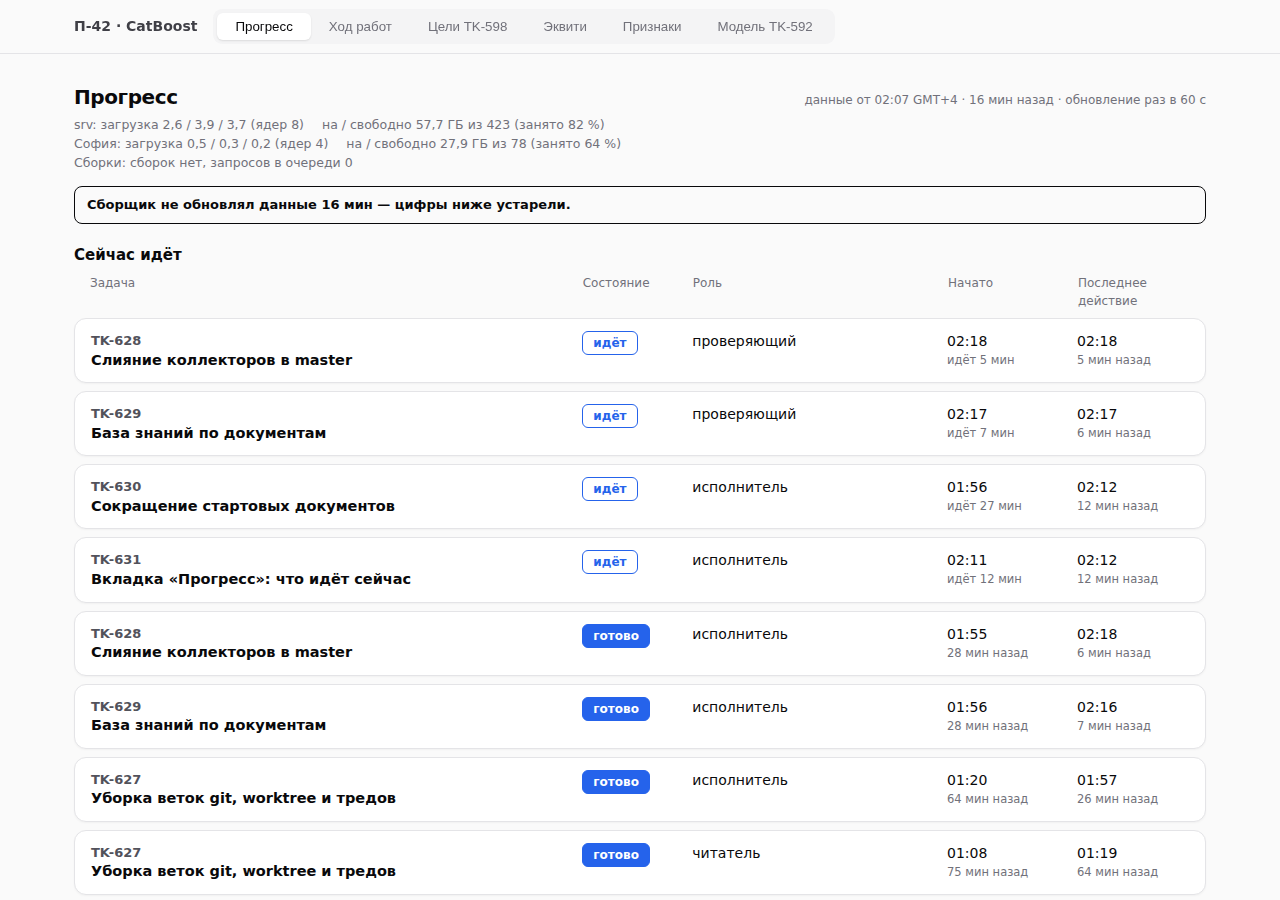
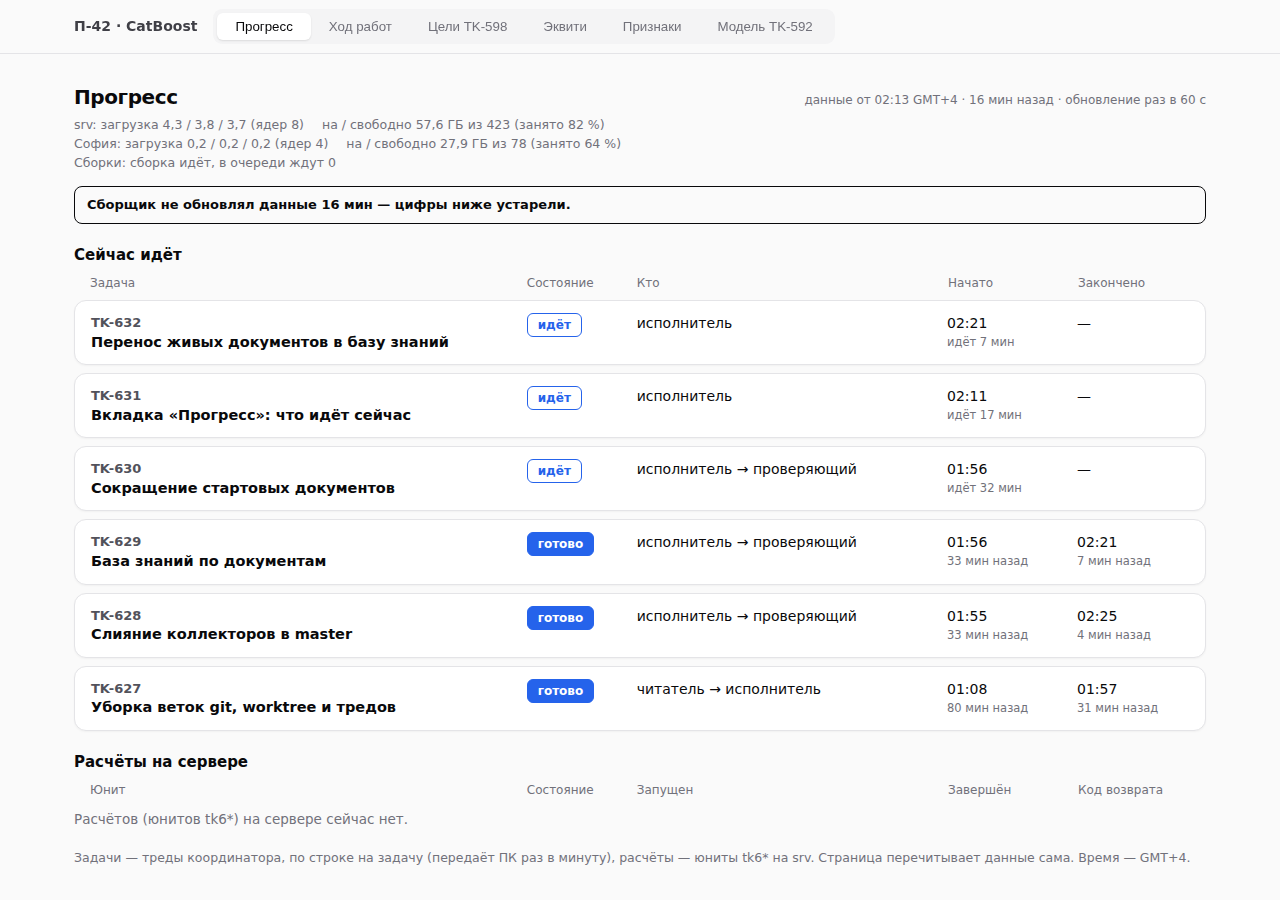
TK-631: одна строка на задачу (исполнитель → проверяющий), без «последнего действия»; TK-632 в tk_names.json
В bb list/show нет времени активности треда (updatedAt — смена состояния), колонка убрана; «закончено» — только у готовых и с ошибкой. now_push добавляет к свежим задачам остальные неархивные треды того же TK, сборщик группирует. Тесты, клик-тест Софии 1280/390 (73+73), снимки.

diff --git a/tools/p42/tk613_check.js b/tools/p42/tk613_check.js
@@ -35,7 +35,7 @@ function g4(ts, nowMs) {
   const state = () => page.evaluate(() => ({hash: location.hash, selected: [...document.querySelectorAll('#toptabs button[aria-selected="true"]')].map(b => b.dataset.tab), visible: [...document.querySelectorAll('.pane')].filter(p => !p.hidden).map(p => p.id)}));
   const nowRows = () => page.evaluate(() => [...document.querySelectorAll('#lv-now .lv-row')].map(r => {
     const t = f => { const n = r.querySelector(`[data-f=${f}]`); return n ? n.innerText.replace(/\s+/g, ' ').trim() : null; };
-    return {tk: r.dataset.task, state: r.dataset.state, badge: t('state'), name: r.querySelector('.lv-name span').innerText, role: t('role'), start: t('start'), upd: t('upd')};
+    return {tk: r.dataset.task, state: r.dataset.state, badge: t('state'), name: r.querySelector('.lv-name span').innerText, role: t('role'), start: t('start'), end: t('end')};
   }));
   const unitRows = () => page.evaluate(() => [...document.querySelectorAll('#lv-units .lv-row')].map(r => {
     const t = f => { const n = r.querySelector(`[data-f=${f}]`); return n ? n.innerText.replace(/\s+/g, ' ').trim() : null; };
@@ -58,16 +58,16 @@ function g4(ts, nowMs) {
   eq('по умолчанию: выбрана и видна', [st0.hash, st0.selected, st0.visible], ['#live', ['live'], ['pane-live']]);
 
   // ── строки против JSON
-  const NW = J.now.threads, UN = J.units;
+  const NW = J.now.tasks, UN = J.units;
   const RN = await nowRows();
   eq('«Сейчас идёт»: задачи и порядок', RN.map(r => r.tk), NW.map(t => t.tk || t.id));
   NW.forEach((t, i) => {
     const r = RN[i], k = t.tk || t.id;
     eq(`${k} состояние`, r.badge, {run: 'идёт', done: 'готово', fail: 'ошибка'}[t.state]);
     eq(`${k} название`, r.name, t.name);
-    eq(`${k} роль`, r.role, t.role ? t.role + (t.version > 1 ? ' · v' + t.version : '') : '—');
+    eq(`${k} кто`, r.role, t.chain.length ? t.chain.join(' → ') : '—');
     eq(`${k} начато (GMT+4)`, t.started_ts ? r.start.startsWith(g4(t.started_ts, nowMs)) : r.start, t.started_ts ? true : '—');
-    eq(`${k} последнее действие (GMT+4)`, t.updated_ts ? r.upd.startsWith(g4(t.updated_ts, nowMs)) : r.upd, t.updated_ts ? true : '—');
+    eq(`${k} закончено (GMT+4)`, t.state !== 'run' && t.end_ts ? r.end.startsWith(g4(t.end_ts, nowMs)) : r.end, t.state !== 'run' && t.end_ts ? true : '—');
   });
   eq('«Сейчас идёт»: пустой список — подпись', NW.length ? (await empties()).filter(x => x.startsWith('Сейчас')).length : (await empties())[0], NW.length ? 0 : 'Сейчас никто не работает.');
   const RU = await unitRows();
@@ -80,6 +80,8 @@ function g4(ts, nowMs) {
   });
   eq('«Расчёты на сервере»: пустой список — подпись', (await empties()).filter(x => x.startsWith('Расчётов')).length, UN.length ? 0 : 1);
   eq('нет старых задач TK-599/607/609/611/610', await page.evaluate(() => /TK-(599|607|609|611|610)/.test(document.getElementById('live').innerText)), false);
+  eq('одна строка на задачу', RN.length, new Set(RN.map(r => r.tk)).size);
+  eq('нет колонки «Последнее действие»', await page.evaluate(() => document.getElementById('live').innerText.includes('Последнее действие')), false);
   const meta = await page.evaluate(() => document.getElementById('lv-meta').innerText.replace(/\s+/g, ' '));
   eq('нагрузка в строке srv', meta.includes('загрузка ' + J.host.load.map(x => ru(x, 1)).join(' / ')), true);
   eq('диск в строке srv', meta.includes('свободно ' + ru(J.host.disk.free_gb, 1) + ' ГБ'), true);
@@ -95,27 +97,28 @@ function g4(ts, nowMs) {
   // ── синтетика: все состояния строк, устаревшая передача ПК, пустые списки
   const T0 = nowMs / 1000;
   const fake = {generated_ts: T0 - 20, units_ok: true, host: J.host,
-    now: {ok: true, pushed_ts: T0 - 900, threads: [
-      {id: 't1', tk: 'TK-901', name: 'Проверка бегущей задачи', named: true, role: 'исполнитель', version: 1, state: 'run', started_ts: T0 - 7500, updated_ts: T0 - 40},
-      {id: 't2', tk: 'TK-902', name: 'topic words only', named: false, role: 'проверяющий', version: 3, state: 'fail', started_ts: T0 - 4000, updated_ts: T0 - 3000},
-      {id: 't3', tk: null, name: 'не по формату', named: false, role: null, version: null, state: 'done', started_ts: null, updated_ts: T0 - 600}]},
+    now: {ok: true, pushed_ts: T0 - 900, tasks: [
+      {id: 'TK-901', tk: 'TK-901', name: 'Проверка бегущей задачи', named: true, state: 'run', chain: ['исполнитель', 'проверяющий'], threads: 2, started_ts: T0 - 7500, end_ts: null},
+      {id: 'TK-902', tk: 'TK-902', name: 'topic words only', named: false, state: 'fail', chain: ['исполнитель', 'исполнитель v2'], threads: 2, started_ts: T0 - 4000, end_ts: T0 - 3000},
+      {id: 't3', tk: null, name: 'не по формату', named: false, state: 'done', chain: [], threads: 1, started_ts: null, end_ts: T0 - 600}]},
     units: [{name: 'tk901-run', state: 'run', since_ts: T0 - 3600, end_ts: null, rc: null}, {name: 'tk902-job', state: 'fail', since_ts: T0 - 1800, end_ts: T0 - 1200, rc: 3},
             {name: 'tk903-done', state: 'done', since_ts: T0 - 1800, end_ts: T0 - 600, rc: 0}]};
   await page.route('**/data/tasks.json*', route => route.fulfill({json: fake}));
   await page.evaluate(() => loadLive()); await page.waitForTimeout(500);
   const FN = await nowRows(), FU = await unitRows();
-  eq('синтетика: строки задач', FN.map(r => [r.tk, r.state, r.badge, r.name, r.role]), [['TK-901', 'run', 'идёт', 'Проверка бегущей задачи', 'исполнитель'], ['TK-902', 'fail', 'ошибка', 'topic words only', 'проверяющий · v3'], ['t3', 'done', 'готово', 'не по формату', '—']]);
+  eq('синтетика: строки задач', FN.map(r => [r.tk, r.state, r.badge, r.name, r.role]), [['TK-901', 'run', 'идёт', 'Проверка бегущей задачи', 'исполнитель → проверяющий'], ['TK-902', 'fail', 'ошибка', 'topic words only', 'исполнитель → исполнитель v2'], ['t3', 'done', 'готово', 'не по формату', '—']]);
   eq('синтетика: «идёт 2 ч 05 мин» у бегущей', FN[0].start.includes('идёт 2 ч 05 мин'), true);
-  eq('синтетика: время «последнее действие» бегущей', FN[0].upd.startsWith(g4(T0 - 40, nowMs)), true);
+  eq('синтетика: у бегущей нет «закончено», у остальных есть', FN.map(r => r.end.startsWith('—')), [true, false, false]);
+  eq('синтетика: закончено у ошибки', FN[1].end.startsWith(g4(T0 - 3000, nowMs)), true);
   eq('синтетика: юниты', FU.map(r => [r.name, r.state, r.badge, r.rc]), [['tk901-run', 'run', 'идёт', '—'], ['tk902-job', 'fail', 'ошибка', '3'], ['tk903-done', 'done', 'завершён', '0']]);
   eq('синтетика: у бегущего юнита нет «завершён»', FU[0].end, '—');
   eq('предупреждение «ПК не передаёт»', (await page.locator('.lv-warn').allInnerTexts()).some(x => x.includes('Список задач не обновлялся') && x.includes('ПК не передаёт')), true);
   await page.screenshot({path: `${out}/live-synthetic-${W}.png`, fullPage: true});
-  fake.now.threads = []; fake.units = []; fake.now.pushed_ts = T0 - 10;
+  fake.now.tasks = []; fake.units = []; fake.now.pushed_ts = T0 - 10;
   await page.evaluate(() => loadLive()); await page.waitForTimeout(500);
   eq('пусто: подписи', await empties(), ['Сейчас никто не работает.', 'Расчётов (юнитов tk6*) на сервере сейчас нет.']);
   eq('пусто: предупреждений нет', await page.locator('.lv-warn').count(), 0);
-  fake.now = {ok: false, err: 'x', pushed_ts: null, threads: []};
+  fake.now = {ok: false, err: 'x', pushed_ts: null, tasks: []};
   await page.evaluate(() => loadLive()); await page.waitForTimeout(500);
   eq('now.json нет: предупреждение', (await page.locator('.lv-warn').allInnerTexts()).some(x => x.includes('Список задач ещё не получен')), true);
   await page.unroute('**/data/tasks.json*');
@@ -145,7 +148,7 @@ function g4(ts, nowMs) {
   eq('на другой вкладке запросов нет', reqs - r1, 0);
   await page.click('#toptabs button[data-tab="live"]'); await page.waitForTimeout(600);
   eq('возврат на «Прогресс»: сразу перечитывает', reqs - r1, 1);
-  eq('после возврата строки на месте', (await nowRows()).length, (await page.evaluate(() => LV.data.now.threads.length)));
+  eq('после возврата строки на месте', (await nowRows()).length, (await page.evaluate(() => LV.data.now.tasks.length)));
 
   // ── хеши и остальные вкладки
   for (const k of ['progress', 'targets', 'equity', 'features', 'model', 'live']) {

diff --git a/tools/p42/tk593_template.html b/tools/p42/tk593_template.html
@@ -197,7 +197,7 @@ section.ft-set{margin-top:22px;scroll-margin-top:118px}
 .lv-hl{display:flex;flex-wrap:wrap;gap:2px 18px}
 .lv-warn{margin:0 0 12px;padding:8px 12px;border:1px solid var(--fg);border-radius:8px;font-size:13px;font-weight:600}
 .lv-h3{margin:20px 0 8px;font-size:15px;font-weight:650}
-.lv-head,.lv-row{display:grid;grid-template-columns:minmax(220px,2fr) 92px minmax(110px,1fr) 112px 112px;gap:6px 18px;align-items:start}
+.lv-head,.lv-row{display:grid;grid-template-columns:minmax(220px,2fr) 92px minmax(170px,1.4fr) 112px 112px;gap:6px 18px;align-items:start}
 .lv-head{padding:0 16px 8px;color:var(--mfg);font-size:12px;font-weight:500}
 .lv-row{background:#fff;border:1px solid var(--border);border-radius:var(--r);box-shadow:0 1px 2px rgba(0,0,0,.04);padding:12px 16px;margin-bottom:8px}
 .lv-name b{display:block;font-size:13px;color:var(--z600)}
@@ -1151,12 +1151,13 @@ const LV_BADGE = {run: 'run', done: 'ok', fail: 'fail'};
 const LV_TXT = {run: 'идёт', done: 'готово', fail: 'ошибка'};
 const lvAge = (ts, now) => ts ? [g4(ts), h('small', {}, dur(now - ts) + ' назад')] : '—';
 function nowRow(t, now) {
+  const run = t.state === 'run';
   return h('div', {class: 'lv-row', 'data-task': t.tk || t.id, 'data-state': t.state}, [
     h('div', {class: 'lv-c lv-name'}, [h('b', {}, t.tk || 'без номера'), h('span', {title: t.named ? null : 'русского названия в таблице нет — тема треда'}, t.name)]),
     h('div', {class: 'lv-c', 'data-l': 'Состояние'}, h('span', {class: 'badge ' + LV_BADGE[t.state], 'data-f': 'state'}, LV_TXT[t.state])),
-    h('div', {class: 'lv-c', 'data-l': 'Роль', 'data-f': 'role'}, t.role ? t.role + (t.version > 1 ? ' · v' + t.version : '') : '—'),
-    h('div', {class: 'lv-c', 'data-l': 'Начато', 'data-f': 'start'}, t.started_ts ? [g4(t.started_ts), h('small', {}, (t.state === 'run' ? 'идёт ' + dur(now - t.started_ts) : dur(now - t.started_ts) + ' назад'))] : '—'),
-    h('div', {class: 'lv-c', 'data-l': t.state === 'run' ? 'Последнее действие' : 'Закончено', 'data-f': 'upd'}, lvAge(t.updated_ts, now))]);
+    h('div', {class: 'lv-c', 'data-l': 'Кто', 'data-f': 'role'}, t.chain.length ? t.chain.join(' → ') : '—'),
+    h('div', {class: 'lv-c', 'data-l': 'Начато', 'data-f': 'start'}, t.started_ts ? [g4(t.started_ts), h('small', {}, run ? 'идёт ' + dur(now - t.started_ts) : dur(now - t.started_ts) + ' назад')] : '—'),
+    h('div', {class: 'lv-c', 'data-l': 'Закончено', 'data-f': 'end'}, !run && t.end_ts ? lvAge(t.end_ts, now) : '—')]);
 }
 function unitRow(u, now) {
   return h('div', {class: 'lv-row', 'data-unit': u.name, 'data-state': u.state}, [
@@ -1172,9 +1173,9 @@ function renderLive() {
   if (!root.childElementCount) {
     root.append(h('div', {class: 'prog-h'}, [h('h2', {}, 'Прогресс'), h('span', {class: 'muted small', id: 'lv-sub'})]),
       h('div', {class: 'lv-meta', id: 'lv-meta'}), h('div', {id: 'lv-warn'}),
-      h('h3', {class: 'lv-h3'}, 'Сейчас идёт'), lvHead(['Задача', 'Состояние', 'Роль', 'Начато', 'Последнее действие']), h('div', {id: 'lv-now'}),
+      h('h3', {class: 'lv-h3'}, 'Сейчас идёт'), lvHead(['Задача', 'Состояние', 'Кто', 'Начато', 'Закончено']), h('div', {id: 'lv-now'}),
       h('h3', {class: 'lv-h3'}, 'Расчёты на сервере'), lvHead(['Юнит', 'Состояние', 'Запущен', 'Завершён', 'Код возврата']), h('div', {id: 'lv-units'}),
-      h('p', {class: 'lv-foot'}, 'Задачи — треды координатора (передаёт ПК раз в минуту), расчёты — юниты tk6* на srv. Страница перечитывает данные сама. Время — GMT+4.'));
+      h('p', {class: 'lv-foot'}, 'Задачи — треды координатора, по строке на задачу (передаёт ПК раз в минуту), расчёты — юниты tk6* на srv. Страница перечитывает данные сама. Время — GMT+4.'));
   }
   const d = LV.data, now = Date.now() / 1000;
   const warn = [], nw = d && d.now;
@@ -1193,7 +1194,7 @@ function renderLive() {
     h('div', {class: 'lv-hl'}, so && so.ok ? hostLine('София', so, 'sofia') : [h('span', {'data-f': 'sofia-load'}, 'София: нет данных' + (so && so.err ? ' (' + so.err + ')' : ''))]),
     ho.builds ? h('div', {class: 'lv-hl'}, h('span', {'data-f': 'builds'}, 'Сборки: ' + ho.builds.text)) : null].filter(Boolean) : []));
   const empty = txt => h('div', {class: 'lv-empty', 'data-f': 'empty'}, txt);
-  const th = nw ? nw.threads : [];
+  const th = nw ? nw.tasks : [];
   document.getElementById('lv-now').replaceChildren(...(!d ? [] : th.length ? th.map(t => nowRow(t, now)) : [empty(nw && nw.ok ? 'Сейчас никто не работает.' : 'Нет данных.')]));
   const un = d ? d.units : [];
   document.getElementById('lv-units').replaceChildren(...(!d ? [] : un.length ? un.map(u => unitRow(u, now)) : [empty('Расчётов (юнитов tk6*) на сервере сейчас нет.')]));

diff --git a/tools/p42/test_tk613.py b/tools/p42/test_tk613.py
@@ -26,29 +26,57 @@ now = time.time()
 # 1. ничего нет — не падает: нет now.json → ok=False, юниты пусты, хост на месте; старых задач в выводе нет
 d = c.collect(now, units=[], sofia=SOFIA)
 json.dumps(d, allow_nan=False)
-assert d["now"] == {"ok": False, "err": "файл now.json не найден или не читается", "pushed_ts": None, "threads": []}, d["now"]
+assert d["now"] == {"ok": False, "err": "файл now.json не найден или не читается", "pushed_ts": None, "tasks": []}, d["now"]
 assert d["units"] == [] and d["units_ok"] is True and "tasks" not in d
 assert d["host"]["sofia"]["disk"]["free_gb"] == 31.2 and d["host"]["builds"]["ok"] and "сборок нет" in d["host"]["builds"]["text"]
 assert d["host"]["cpus"] and d["host"]["disk"]["total_gb"] > 0
 
-# 2. now.json: русское имя по TK из таблицы, иначе тема словами; роль по-русски; мусорные строки пропускаются
+# 2. now.json → строка на задачу: цепочка ролей по порядку старта, состояние, русское имя по TK (иначе тема словами), мусор пропускается
+def T(id, tk, topic, role, ver, state, started, updated):
+    return {"id": id, "state": state, "tk": tk, "topic": topic, "role": role, "version": ver, "started_ts": started, "updated_ts": updated, "title": id}
+
+
 put("pages/ml/data/now.json", json.dumps({"generated_ts": now - 30, "threads": [
-    {"id": "t1", "state": "run", "tk": "TK-631", "topic": "progress-now", "role": "исп", "version": 1, "started_ts": now - 600, "updated_ts": now - 5, "title": "x"},
-    {"id": "t2", "state": "done", "tk": "TK-700", "topic": "new-topic-here", "role": "пров", "version": 2, "started_ts": now - 7200, "updated_ts": now - 900, "title": "y"},
-    {"id": "t3", "state": "fail", "tk": None, "topic": None, "role": None, "version": None, "started_ts": None, "updated_ts": None, "title": "не по формату"},
-    {"id": "t4", "state": "weird", "tk": "TK-1", "topic": "skip", "role": "исп"}, "мусор"]}))
+    T("a1", "TK-631", "progress-now", "исп", 1, "run", now - 600, now - 5),                       # одиночный бегущий
+    T("b1", "TK-700", "new-topic-here", "исп", 1, "done", now - 7200, now - 4000),             # исполнитель → проверяющий, оба готовы
+    T("b2", "TK-700", "new-topic-here", "пров", 1, "done", now - 3900, now - 900),
+    T("c1", "TK-701", "pair-run", "исп", 1, "done", now - 9000, now - 3000),                   # проверяющий идёт — задача «идёт»
+    T("c2", "TK-701", "pair-run", "пров", 1, "run", now - 2000, now - 1900),
+    T("d1", "TK-702", "retry", "исп", 1, "fail", now - 8000, now - 7000),                      # v1 с ошибкой, v2 идёт, затем проверяющий закрыт: «идёт» (v2)
+    T("d2", "TK-702", "retry", "исп", 2, "run", now - 6000, now - 5900),
+    T("d3", "TK-702", "retry", "пров", 1, "done", now - 5000, now - 4900),
+    T("e1", "TK-703", "twice", "исп", 1, "done", now - 5000, now - 4500),                      # два подряд одинаковых ярлыка схлопываются
+    T("e2", "TK-703", "twice", "исп", 1, "done", now - 4000, now - 800),
+    T("f1", None, None, None, None, "fail", None, None),                                       # не по формату — своя строка
+    {"id": "w", "state": "weird", "tk": "TK-1", "topic": "skip", "role": "исп"}, "мусор"]}))
 put("p42-tk613/tk_names.json", json.dumps({"TK-631": "Вкладка «Прогресс»: что идёт сейчас"}))
 nb = c.collect(now, units=[], sofia=SOFIA)["now"]
-assert nb["ok"] and nb["pushed_ts"] == now - 30 and [t["id"] for t in nb["threads"]] == ["t1", "t2", "t3"], nb
-t1, t2, t3 = nb["threads"]
-assert t1["name"] == "Вкладка «Прогресс»: что идёт сейчас" and t1["named"] and t1["role"] == "исполнитель" and t1["state"] == "run"
-assert t2["name"] == "new topic here" and not t2["named"] and t2["role"] == "проверяющий" and t2["version"] == 2
-assert t3["name"] == "не по формату" and t3["tk"] is None and t3["state"] == "fail"
+assert nb["ok"] and nb["pushed_ts"] == now - 30 and "threads" not in nb, nb
+tasks = {t["id"]: t for t in nb["tasks"]}
+assert [t["id"] for t in nb["tasks"]] == ["TK-631", "TK-702", "TK-701", "f1", "TK-703", "TK-700"], [t["id"] for t in nb["tasks"]]   # идёт → ошибка → готово; внутри — новее старт выше
+a = tasks["TK-631"]
+assert a["name"] == "Вкладка «Прогресс»: что идёт сейчас" and a["named"] and a["chain"] == ["исполнитель"] and a["state"] == "run" and a["end_ts"] is None and a["threads"] == 1
+b = tasks["TK-700"]
+assert b["name"] == "new topic here" and not b["named"] and b["chain"] == ["исполнитель", "проверяющий"] and b["state"] == "done" and b["end_ts"] == now - 900 and b["started_ts"] == now - 7200 and b["threads"] == 2
+cc = tasks["TK-701"]
+assert cc["chain"] == ["исполнитель", "проверяющий"] and cc["state"] == "run" and cc["end_ts"] is None
+d = tasks["TK-702"]
+assert d["chain"] == ["исполнитель", "исполнитель v2", "проверяющий"] and d["state"] == "run" and d["threads"] == 3
+e = tasks["TK-703"]
+assert e["chain"] == ["исполнитель"] and e["state"] == "done" and e["threads"] == 2
+f = tasks["f1"]
+assert [t["state"] for t in nb["tasks"]] == ["run", "run", "run", "fail", "done", "done"]
+assert f["tk"] is None and f["name"] == "f1" and f["chain"] == [] and f["state"] == "fail" and f["started_ts"] is None
+# задача, закрытая последним тредом с ошибкой, и без идущих: состояние последнего по старту
+last_fail = c.group_tasks([T("x1", "TK-9", "t", "исп", 1, "done", 10, 20), T("x2", "TK-9", "t", "пров", 1, "fail", 30, 40)], {})
+assert last_fail[0]["state"] == "fail" and last_fail[0]["end_ts"] == 40
 # битый json / не тот формат — «ok: False», не падение
 put("pages/ml/data/now.json", "{oops")
 assert c.collect(now, units=[], sofia=SOFIA)["now"]["ok"] is False
 put("pages/ml/data/now.json", json.dumps({"threads": "нет"}))
 assert c.collect(now, units=[], sofia=SOFIA)["now"]["ok"] is False
+put("pages/ml/data/now.json", json.dumps({"generated_ts": now, "threads": []}))
+assert c.collect(now, units=[], sofia=SOFIA)["now"] == {"ok": True, "pushed_ts": now, "tasks": []}
 
 # 3. юниты tk6*: разбор «systemctl show»; свой сборщик и таймеры не в счёте; завершённые — только свежие
 SHOW = """Id=tk631-run.service

diff --git a/tools/p42/tk613_collect.py b/tools/p42/tk613_collect.py
@@ -4,7 +4,7 @@
 Раз в минуту (таймер tk613-progress.timer) читает файлы и юниты srv — только чтение, ничего не трогает — и пишет один JSON
 /data/pages/ml/data/tasks.json (его читает страница). Источники:
   now.json   /data/pages/ml/data/now.json — дочерние треды координатора bb (ПК владельца, tools/now_push.py раз в минуту): TK, тема, роль, статус;
-             русское имя задачи — по TK из tk_names.json (нет — тема треда словами)
+             строка на задачу (исполнитель → проверяющий), русское имя — по TK из tk_names.json (нет — тема треда словами)
   юниты srv  systemd tk6*.service (кроме самого сборщика): имя, с какого времени, код возврата
   srv        нагрузка, место на /; сборки — очередь rbuild (/opt/rbuild, процессы run-srv.sh)
   София      нагрузка и место на / по ssh (ключ только на команду чтения, см. sofia_probe)
@@ -111,22 +111,40 @@ def list_units(now):
 
 
 # ── что идёт сейчас: треды bb ──────────────────────────────────────────────────────────────────────────────────────────────────────────
+def group_tasks(threads, names):
+    """Треды (строки now.json) → по одной строке на задачу TK: цепочка ролей по порядку старта («исполнитель → проверяющий»), состояние — «идёт», если идёт любой тред
+    задачи, иначе состояние последнего по старту; конец — когда закрылся последний тред (только для готово/ошибка). Тред без номера — своя строка."""
+    groups = {}
+    for t in threads:
+        if isinstance(t, dict) and t.get("state") in ("run", "fail", "done"):
+            groups.setdefault(t.get("tk") or t.get("id"), []).append(t)
+    out = []
+    for key, g in groups.items():
+        g.sort(key=lambda t: (t.get("started_ts") or 0, t.get("updated_ts") or 0))
+        last = g[-1]
+        st = "run" if any(t["state"] == "run" for t in g) else last["state"]
+        chain = []
+        for t in g:
+            lab = ROLES.get(t.get("role"), t.get("role"))
+            lab = lab and lab + (f" v{t['version']}" if (t.get("version") or 1) > 1 else "")
+            if lab and (not chain or chain[-1] != lab):
+                chain.append(lab)
+        tk, topic = last.get("tk"), last.get("topic")
+        starts = [t["started_ts"] for t in g if t.get("started_ts")]
+        out.append({"id": key, "tk": tk, "name": names.get(tk) or (topic.replace("-", " ") if topic else last.get("title") or key), "named": bool(names.get(tk)),
+                    "state": st, "chain": chain, "threads": len(g), "started_ts": min(starts) if starts else None,
+                    "end_ts": None if st == "run" else last.get("updated_ts")})
+    out.sort(key=lambda r: ({"run": 0, "fail": 1, "done": 2}[r["state"]], -(r["started_ts"] or 0)))
+    return out
+
+
 def now_block(now, path=None, names_path=None):
-    """now.json (его кладёт ПК) → {ok, pushed_ts, threads[{id, tk, name, role, version, state, started_ts, updated_ts}]}; name — русское по TK."""
+    """now.json (его кладёт ПК) → {ok, pushed_ts, tasks[{id, tk, name, named, state, chain, threads, started_ts, end_ts}]}; name — русское по TK."""
     d = jload(path or NOW)
     if not isinstance(d, dict) or not isinstance(d.get("threads"), list):
-        return {"ok": False, "err": "файл now.json не найден или не читается", "pushed_ts": None, "threads": []}
+        return {"ok": False, "err": "файл now.json не найден или не читается", "pushed_ts": None, "tasks": []}
     names = jload(names_path or NAMES)
-    names = names if isinstance(names, dict) else {}
-    out = []
-    for t in d["threads"]:
-        if not isinstance(t, dict) or t.get("state") not in ("run", "fail", "done"):
-            continue
-        tk, topic, role = t.get("tk"), t.get("topic"), t.get("role")
-        name = names.get(tk) or (topic.replace("-", " ") if topic else t.get("title") or t.get("id"))
-        out.append({"id": t.get("id"), "tk": tk, "name": name, "named": bool(names.get(tk)), "role": ROLES.get(role, role), "version": t.get("version"),
-                    "state": t["state"], "started_ts": t.get("started_ts"), "updated_ts": t.get("updated_ts")})
-    return {"ok": True, "pushed_ts": d.get("generated_ts"), "threads": out}
+    return {"ok": True, "pushed_ts": d.get("generated_ts"), "tasks": group_tasks(d["threads"], names if isinstance(names, dict) else {})}
 
 
 # ── сборки, нагрузка, диск ─────────────────────────────────────────────────────────────────────────────────────────────────────────────
@@ -205,7 +223,7 @@ def main():
     with open(tmp, "w", encoding="utf-8") as f:
         json.dump(data, f, ensure_ascii=False, allow_nan=False, separators=(",", ":"))
     os.replace(tmp, OUT)
-    print(OUT, f"треды {len(data['now']['threads'])}, юниты {len(data['units'])}")
+    print(OUT, f"задач {len(data['now']['tasks'])}, юниты {len(data['units'])}")
 
 
 if __name__ == "__main__":

diff --git a/tools/now_push.py b/tools/now_push.py
@@ -31,19 +31,21 @@ def parse_title(title):
 
 
 def build(threads, now_ms, done_hours=DONE_HOURS):
-    """Список тредов bb (bb thread list --json) → строки now.json: идут (run), с ошибкой (fail), закрытые за done_hours (done); новее — выше."""
-    out = []
+    """Список тредов bb (bb thread list --json) → строки now.json (по треду). Берутся: идут (run), с ошибкой (fail), закрытые за done_hours (done);
+    к ним добавляются остальные неархивные треды того же TK (цепочка исполнитель → проверяющий для страницы). Порядок: состояние, новее выше."""
+    rows = []
     for t in threads:
         st = STATE.get(t.get("status"))
         if not st or t.get("archivedAt") or t.get("deletedAt"):
             continue
         upd = t.get("updatedAt") or t.get("createdAt")
-        if st == "done" and (not upd or now_ms - upd > done_hours * 3600e3):
-            continue
         p = parse_title(t.get("title"))
-        out.append({"id": t["id"], "state": st, "title": t.get("title") or "", "tk": p and p["tk"], "topic": p["topic"] if p else None,
-                    "role": p and p["role"], "version": p and p["version"],
-                    "started_ts": t["createdAt"] / 1000 if t.get("createdAt") else None, "updated_ts": upd / 1000 if upd else None})
+        rows.append(({"id": t["id"], "state": st, "title": t.get("title") or "", "tk": p and p["tk"], "topic": p["topic"] if p else None,
+                      "role": p and p["role"], "version": p and p["version"],
+                      "started_ts": t["createdAt"] / 1000 if t.get("createdAt") else None, "updated_ts": upd / 1000 if upd else None},
+                     st != "done" or bool(upd and now_ms - upd <= done_hours * 3600e3)))
+    live = {r["tk"] for r, hit in rows if hit and r["tk"]}
+    out = [r for r, hit in rows if hit or r["tk"] in live]
     order = {"run": 0, "fail": 1, "done": 2}
     out.sort(key=lambda r: (order[r["state"]], -(r["updated_ts"] or 0)))
     return out

diff --git a/tools/test_now_push.py b/tools/test_now_push.py
@@ -43,7 +43,18 @@ assert by["c"]["started_ts"] == (NOW - 1 * H) / 1000 and by["c"]["updated_ts"] =
 assert by["h"]["tk"] is None and by["h"]["topic"] is None and by["h"]["title"] == "не по формату"
 assert n.build([th("x", "исп · TK-9 · t · v1", "idle", upd_h_ago=2)], NOW, done_hours=1) == []
 
-# 3. пустой и «битый» ввод не роняет
+# 3. цепочка задачи: у задачи с живым/свежим тредом в now.json попадают и остальные неархивные треды этого TK (даже старые закрытые)
+rows = n.build([
+    th("e1", "исп · TK-10 · chain · v1", "idle", upd_h_ago=9, created_h_ago=12),             # старый исполнитель той же задачи
+    th("v1", "пров · TK-10 · chain · v1", "active", upd_h_ago=0.1, created_h_ago=1),         # проверяющий идёт
+    th("e2", "исп · TK-10 · chain · v1", "idle", upd_h_ago=8, created_h_ago=9, archivedAt=5),  # архивный — не входит
+    th("o1", "исп · TK-11 · old-pair · v1", "idle", upd_h_ago=9),                            # вся задача давно закрыта — нет
+    th("o2", "пров · TK-11 · old-pair · v1", "idle", upd_h_ago=8),
+    th("n1", "не по формату", "idle", upd_h_ago=9),                                          # без номера — по себе, не по задаче
+], NOW)
+assert [r["id"] for r in rows] == ["v1", "e1"], [r["id"] for r in rows]
+
+# 4. пустой и «битый» ввод не роняет
 assert n.build([], NOW) == []
 assert n.build([{"id": "z", "title": None, "status": "active", "createdAt": None, "updatedAt": None}], NOW)[0]["started_ts"] is None
 print("test_now_push: OK")

diff --git a/docs/COMMANDS.md b/docs/COMMANDS.md
@@ -50,7 +50,7 @@
 
 **Вид «Где мы» и «Базы» вкладки «Эквити», страница :8090 (TK-624, 19–20.11):** «Ход работ» (`#progress`) — только этапы + строка-ссылка на «Эквити», денег там нет. Вся прибыль/шарп/кривые — «Эквити»: `#equity/short/where` (блок «Где мы»: базы, честная вселенная TK-621 U0…U4 по лонгу и шорту, что сломано, что дальше + блок «Признак: успешные пробои монеты» — `feature` в `ml_progress.json`, «считается» до таблицы TK-625) и `#equity/short|long|both/bases`. Тексты — `where` и `feature` в `tools/p42/ml_progress.json` (схема `ml_progress.schema.json`; у этапов необязательное `group`), разъяснение TK-604 — набор «Пробиваемость монеты» в `ml_features.json`. Цифры и кривые — `data/bases.json` (суточные ряды `L_base`/`S_base` TK-599 и `S_mk1` TK-616; `tk624_table.py`) и `data/universe.json` (TK-621, `tk624_universe.py`: ряды `/data/p42-tk621/out/`, сверка с `report.json`); оба строит `ml_page_update.sh`, `tk593_page.py` сверяет итоги с принятыми отчётами. Таблицы признака TK-625 — `tools/p42/tk624_feature.py <step1-h775.json> <step1-o566.json> ml_progress.json` (копии источников — `docs/findings/p42-where-we-are-2026-11-19/tk625-step1-*.json`). Проверка: `tk624_shots.js` (Sofia, как `tk593_shots.js`) + `/opt/venv/bin/python tk624_check.py /data/pages/ml/index.html <каталог dom> <каталог tk625-step1-*.json>` (744 проверки); прежние `tk593_check.py` (4151), `tk606_check.js`; `tk624_bpscan.js` (Sofia) — счёт «бп» на всех вкладках и видах (должен быть 0: на сайте единицы только $, %, шарп). Отчёт `docs/findings/p42-where-we-are-2026-11-19.md`.
 
-**Вкладка «Прогресс» страницы :8090 (TK-613, 19.11; TK-631, 20.11 — «что идёт сейчас»; хеш `#live`, вкладка по умолчанию):** блок «Сейчас идёт» — по строке на дочерний тред координатора bb (номер TK, русское название, роль, идёт / готово / ошибка, начато, последнее действие; готовые — за последние 6 ч) и блок «Расчёты на сервере» — юниты `tk6*.service` на srv (с какого времени, код возврата); сверху нагрузка и диск srv и Софии, очередь сборок. Треды передаёт ПК: `tools/now_push.py` раз в минуту (скриптовая автоматика bb `auto_vgvhdq5dlom`, cron `* * * * *`, 0 токенов; `bb thread list --json --parent-thread <координатор>` → один ssh `cat > now.json.tmp && mv`, ключ и known_hosts явно) кладёт `/data/pages/ml/data/now.json`; нет передачи 5 мин — на странице предупреждение «ПК не передаёт данные». Сборщик на srv — `tools/p42/tk613_collect.py` (таймер `tk613-progress.timer` раз в 60 с, Nice 19, только чтение; склеивает now.json, юниты, нагрузку, диск, очередь rbuild в `data/tasks.json`; страница перечитывает его раз в 60 с; файлы юнитов — `tools/p42/tk613-progress.{service,timer}`). Русское название задачи — `tools/p42/tk_names.json` (TK → название; нет в таблице — тема треда словами): новую задачу дописать и выложить `tk613_deploy.sh` (кладёт файл в `/data/p42-tk613/`). Автоматика держит снимок `now_push.py`: после правки файла — `bb automation update auto_vgvhdq5dlom --project proj_c9qkb4hzeu --script-file <путь к tools/now_push.py>`. Выкладка страницы: `bash tools/p42/tk613_deploy.sh` (сборщик, таблица имён, юниты, пересборка страницы из шаблона; прочие данные страницы не трогает). Проверки: `python tools/test_now_push.py` (разбор названий и статусов тредов), `python tools/p42/test_tk613.py` (сборщик: now.json, юниты, сборки) и клик-тест `tk613_check.js` на Софии (65–70 проверок на 1280 и 390, число зависит от числа тредов: DOM против `tasks.json`, синтетические данные со всеми состояниями, предупреждения «устарели» / «нет связи» / «ПК не передаёт»; снимки — `docs/findings/tk631-progress-now-2026-11-20/`). Строка «София» — по ssh с srv ключом `/root/.ssh/id_tk613_sofia`, который на Софии в `authorized_keys` разрешён только на одну команду чтения (`restrict,command="cat /proc/loadavg; nproc; df -B1 / | tail -1"`, метка `tk613-ro`; убрать доступ — удалить эту строку). Задачи TK-599/607/609/611/610 с вкладки убраны (20.11, TK-631): их счётчики и разбор логов — в истории git (`tk613_collect.py` до TK-631).
+**Вкладка «Прогресс» страницы :8090 (TK-613, 19.11; TK-631, 20.11 — «что идёт сейчас»; хеш `#live`, вкладка по умолчанию):** блок «Сейчас идёт» — по строке на задачу TK (не на тред): номер, русское название, цепочка «исполнитель → проверяющий» по порядку старта, идёт / готово / ошибка, начато, закончено; «идёт», если идёт любой тред задачи, иначе состояние последнего; готовые — за последние 6 ч; времени «последнего действия» в `bb thread list/show` нет (`updatedAt` меняется только при смене состояния, живого сигнала только журнал событий) — колонки нет и блок «Расчёты на сервере» — юниты `tk6*.service` на srv (с какого времени, код возврата); сверху нагрузка и диск srv и Софии, очередь сборок. Треды передаёт ПК: `tools/now_push.py` раз в минуту (скриптовая автоматика bb `auto_vgvhdq5dlom`, cron `* * * * *`, 0 токенов; `bb thread list --json --parent-thread <координатор>` → один ssh `cat > now.json.tmp && mv`, ключ и known_hosts явно) кладёт `/data/pages/ml/data/now.json`; нет передачи 5 мин — на странице предупреждение «ПК не передаёт данные». Сборщик на srv — `tools/p42/tk613_collect.py` (таймер `tk613-progress.timer` раз в 60 с, Nice 19, только чтение; склеивает now.json, юниты, нагрузку, диск, очередь rbuild в `data/tasks.json`; страница перечитывает его раз в 60 с; файлы юнитов — `tools/p42/tk613-progress.{service,timer}`). Русское название задачи — `tools/p42/tk_names.json` (TK → название; нет в таблице — тема треда словами): новую задачу дописать и выложить `tk613_deploy.sh` (кладёт файл в `/data/p42-tk613/`). Автоматика держит снимок `now_push.py`: после правки файла — `bb automation update auto_vgvhdq5dlom --project proj_c9qkb4hzeu --script-file <путь к tools/now_push.py>`. Выкладка страницы: `bash tools/p42/tk613_deploy.sh` (сборщик, таблица имён, юниты, пересборка страницы из шаблона; прочие данные страницы не трогает). Проверки: `python tools/test_now_push.py` (разбор названий и статусов тредов), `python tools/p42/test_tk613.py` (сборщик: now.json, юниты, сборки) и клик-тест `tk613_check.js` на Софии (73 проверки на 1280 и 390, число зависит от числа задач: DOM против `tasks.json`, синтетические данные со всеми состояниями, предупреждения «устарели» / «нет связи» / «ПК не передаёт»; снимки — `docs/findings/tk631-progress-now-2026-11-20/`). Строка «София» — по ssh с srv ключом `/root/.ssh/id_tk613_sofia`, который на Софии в `authorized_keys` разрешён только на одну команду чтения (`restrict,command="cat /proc/loadavg; nproc; df -B1 / | tail -1"`, метка `tk613-ro`; убрать доступ — удалить эту строку). Задачи TK-599/607/609/611/610 с вкладки убраны (20.11, TK-631): их счётчики и разбор логов — в истории git (`tk613_collect.py` до TK-631).
 
 **Вкладка «Признаки» страницы :8090 (TK-606, 18.11):** все признаки, которые проверяли или проверяют в П-42, по наборам (f12 · поток+производные · сетап+стакан Binance · токсичный поток TK-600 · пробиваемость монеты TK-604): имя в коде, что измеряет, источник данных, статус и принятые цифры набора с путём к отчёту. Данные — `tools/p42/ml_features.json` (схема `ml_features.schema.json`; `tk593_page.py` дополнительно проверяет ссылки на источники, повторы имён и что у набора «идёт» нет цифр); правка и выкладка — та же `bash tools/p42/ml_page_update.sh`. Проверки: `python -m pytest tools/p42/test_tk606.py` (данные) и клик-тест Софии `tk606_check.js` (сверка DOM с `data/features.json`, навигация, хеши `#features/<id>`, 1280 и 390; не на ПК владельца). Цифры набора вносить только из принятых отчётов; когда TK-600 / TK-604 закроются — заменить «Цифр пока нет» цифрами и путём к отчёту.
 
